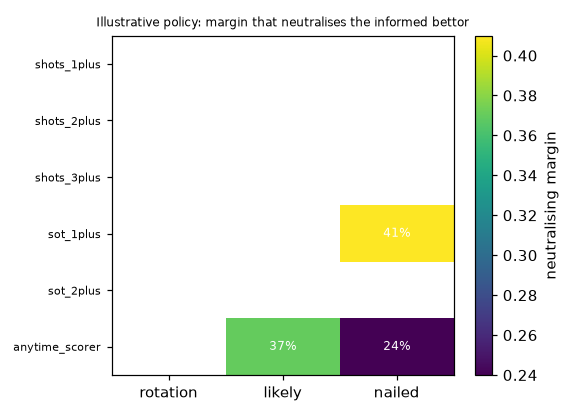
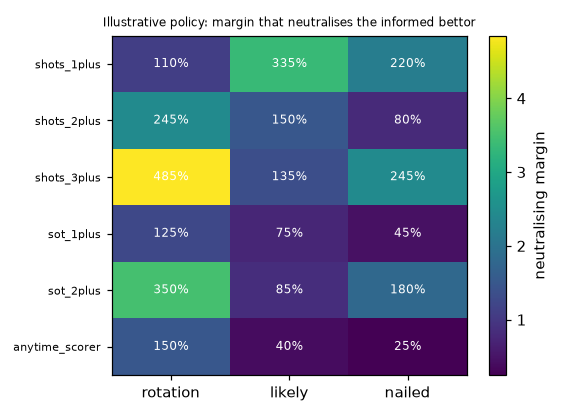
Gate 6: Pillar C metrics, figures, registry, D-052 and gate report

diff --git a/docs/GATES.md b/docs/GATES.md
@@ -392,3 +392,41 @@ Everything else in the efficiency map is **not distinguishable from zero**: no l
 - D-043 outcome accepted: the Pillar A BTTS calibration claim is withdrawn.
 - Locked: D-047, D-048. New: D-049 (frailty experiment for the under-prediction), D-050 (Pillar C pre-registration).
 - Phase 6 may start.
+
+### Step 0 report (implementer, 2026-10-07, after the Gate 5 audit)
+- **D-049 (frailty experiment), `uv run edgeforge phase6 frailty`, `phase6_frailty.json`, commit `7e13ae7`: NOT ADOPTED.** theta was tuned on matchweeks 10-14 (lineups state, D-047 templates, template-equal-weight log loss) with `tune_interior` and a natural lower bound at 0: joint log loss 0.29704 at theta 0, 0.29726 at 0.05, 0.29772 at 0.1, 0.29844 at 0.2, 0.29971 at 0.4, so the optimum is at the natural bound theta = 0 (no edge problem, D-040). On the choose window (matchweeks 15-19) the best positive grid value, theta 0.05, changes joint log loss by +0.00025 [-0.00040, +0.00089] (not an improvement) and team-market log loss by -0.00123 [-0.00346, +0.00099]. Evaluated once on test regardless: theta 0.05 minus 0 joint log loss +0.00008 [-0.00030, +0.00047] (lineups) and +0.00006 [-0.00032, +0.00044] (opening); team-market +0.00062 [-0.00040, +0.00157] and +0.00046 [-0.00050, +0.00148]. **Absolute under-prediction (mean predicted vs realised rate, lineups) before -> after:** T05 0.064 -> 0.065 (realised 0.082); T06 0.153 -> 0.153 (0.179); T09 0.065 -> 0.067 (0.071); T10 0.080 -> 0.080 (0.102); T11 0.048 -> 0.049 (0.065). A shared match-level frailty therefore does not explain the under-prediction; Phase 6 uses theta = 0 and the Phase 5 numbers stay the headline.
+- Phase 4 was rerun once to emit tuning-window start probabilities (needed to fit the Pillar C policy on matchweeks 10-19); every committed Phase 4 metric is unchanged apart from provenance (checked field by field).
+
+## Gate 6: Pillar C, lineup shock and adverse selection (2015/16 player block)
+
+**Report date:** 2026-10-07. Metrics: `phase6_pillar_c.json` (collected and analysed at commit `ec1d218`, clean tree, theta 0, 20,000 simulations per match and state, seed 20261004) and `phase6_frailty.json`. 758 test matches (matchweeks 20-38) for results; the 380 matches of matchweeks 10-19 only for fitting the illustrative policy. The specification is D-051 (the pre-registration D-050 asks for; D-050 itself is the lead's requirement), committed in `00c6500` before any Pillar C quantity existed. Everything below is labelled **UPPER BOUND** (D-016, D-029: lineups known with certainty at T-60 minutes) or **SIMULATION** (no real bettor, no customer flow, no limits, no liquidity cost).
+
+### What was built
+- `evaluation/phase6_pillar_c.py` (`edgeforge phase6 run [--reuse-collected]`), `evaluation/phase6_frailty.py` (`edgeforge phase6 frailty`), the optional frailty in the simulator, `configs/phase6.yaml`. Every proposition is priced in both states from the same simulator, seed and model version; the null control re-simulates the opening state with an independent seed.
+- Propositions: 147,780 props in the lineups squad (119,970 settled, i.e. the player appeared) and 15,589 SGA instances priced in both states (14,842 settled; 1,845 instances were void because a named player was not in the lineups squad).
+
+### Gate criteria
+| # | Criterion | Result | Proving command | Observed (from `phase6_pillar_c.json`) |
+|---|---|---|---|---|
+| 1 | D-050/D-051 pre-registration committed before any Pillar C result | **PASS** | `git show 00c6500 -- docs/DECISIONS.md` | markets, bands (<0.50, 0.50-0.85, >0.85 opening P(start)), shock metric, informed-bettor rule, margin grid, epsilon, BH families all fixed in D-051 |
+| 2 | Both states priced for all props and D-047 SGA templates | **PASS** | `uv run edgeforge phase6 run` | counts above; props by market x band, SGAs by template, leg count and band |
+| 3 | Shock distribution (log-odds and fair decimal odds) by market, band and SGA leg count; shares moving > 10/25/50% | **PASS** | same, `shock` | share of props whose fair odds move by more than 10% / 25% / 50%: rotation 94 / 82 / 59%, likely 55 / 31 / 24%, nailed 40 / 16 / 8%; median change in log-odds -0.57 for rotation, -0.02 likely, -0.04 nailed. Largest in shots 2+ (rotation 95 / 86 / 68%), smallest in SoT 1+ and anytime scorer for nailed starters (25 / 6 / 5% and 38 / 9 / 5%). SGAs by leg count 2 / 3 / 4 / 5: 47 / 43 / 65 / 65% move more than 10% and 18 / 19 / 30 / 27% more than 50%; by band rotation 94 / 76 / 48%, nailed 30 / 10 / 8% |
+| 4 | Value of information (log loss opening vs lineups), paired bootstrap, BH 10% | **PASS (mixed)** | same, `value_of_information` | Family V (19 tests): the lineups price is better for **all six prop markets** (opening minus lineups log loss: shots 1+ +0.0242 [+0.0206, +0.0278], 2+ +0.0215, 3+ +0.0141, SoT 1+ +0.0097, SoT 2+ +0.0063, anytime +0.0040 [+0.0024, +0.0055]; all q = 0.005) and for **three of 13 SGA templates**: T05 +0.0045 (q 0.076), T06 +0.0101 (q 0.019), T12 +0.0127 (q 0.005). The other ten templates are not distinguishable from zero (differences -0.0015 to +0.0049). Family B (band split): rotation and likely players improve in every market, nailed starters only in shots 3+ (+0.0039); e.g. shots 1+ rotation +0.0468, nailed +0.0027 (not distinguishable) |
+| 5 | Informed-bettor simulation: bet rate, book expected P&L per unit staked, realised P&L, CIs, margin at which informed profit reaches zero | **PASS** | same, `informed_bettor` | props pooled at margin 0 / 5% / 10% / 20% / 60%: bet rate 99% / 50% / 37% / 24% / 8%; informed expected profit per offered proposition 0.191 / 0.151 / 0.125 / 0.090 / 0.032; realised 0.239 [0.160, 0.340] at 0 and 0.187 [0.118, 0.280] at 5%; book expected P&L per unit staked -0.19 / -0.30 / -0.34 / -0.37 / -0.38. At 10%: rotation expected 0.283 (realised 0.311), likely 0.071 (0.057), nailed 0.036 (0.101). SGAs pooled at 5%: expected 0.045, realised 0.089 [0.006, 0.181]. Family P (realised profit at 5% differs from zero, 19 tests): survivors are all six prop markets plus T11 (q 0.076) and T12 (q 0.049); the other 11 templates are not distinguishable from zero. **Margin that reaches zero: on the pre-registered grid (0-60%) it is not reached by any pooled cell or by rotation props**; reached only by anytime scorer likely 37% / nailed 24%, SoT 1+ nailed 41% (tuning window) and by 9 of 13 SGA templates (44-57%, tuning window). Post-hoc extended grid below |
+| 6 | Policy output: margin per market x band vs flat; stake-limit alternative; rotation vs nailed | **PASS (illustrative)** | same, `policy` | **Post-hoc extended grid (0-500%, tuning window; labelled in D-052):** neutralising margin props pooled 260%; by band rotation 330%, likely 195%, nailed 165% (test window: 345 / 205 / 220%). By market, rotation / likely / nailed: shots 1+ 110 / 335 / 220%, shots 2+ 245 / 150 / 80%, shots 3+ 485 / 135 / 245%, SoT 1+ 125 / 75 / 45%, SoT 2+ 350 / 85 / 180%, anytime scorer 150 / 40 / 25%. SGAs: pooled 70% (test 85%), by template 45-100%, by band rotation 135%, likely 45%, nailed 15%. Single-cell margins are noisy and not monotone in band (shots 1+ likely above nailed); the band-level and pooled figures are the stable ones. **Test evaluation of the policies fitted on matchweeks 10-19:** flat pooled 260%: informed expected profit per offered proposition 0.0012 [0.0010, 0.0015], realised -0.0012 [-0.0021, -0.0002]; differentiated (mean margin 168%: rotation 244%, likely 137%, nailed 133%): 0.0016 [0.0013, 0.0019], realised -0.0028 [-0.0040, -0.0015]; flat worst cell 485%: 0.0001. A nailed starter is charged 133% under the differentiated policy and 260% under the flat one (127 points less); a rotation player 244% vs 260%. Capped at the pre-registered 60%: expected 0.032 and realised 0.021 [0.010, 0.033]. SGA flat pooled 70%: 0.0014 (realised -0.0004); differentiated by template (mean 68%): 0.0012 (realised -0.0043 [-0.0073, -0.0017]). **Stake limit** (expected informed profit at most 0.5 per match at a 5% margin): the unit-stake informed profit per match on the tuning window is 22.1 for props pooled (rotation 15.0, likely 5.0, nailed 2.0), giving maximum stakes of 0.023 (pooled), 0.033 / 0.099 / 0.247 (rotation / likely / nailed), 0.633 for SGAs; on test the expected profit at those stakes is 0.54 (pooled), 0.53 / 0.56 / 0.59 and 0.57, realised 0.67 / 0.58 / 0.62 / 1.46 and 1.11 |
+| 7 | Null control for Monte Carlo noise (added; see D-052) | **PASS** | same, `null_control` | replacing the lineups probabilities with an independent re-simulation of the opening state gives informed expected profit per offered proposition of 0.035 / 0.019 / 0.014 at margin 0 / 5% / 10% for props (about 12% of the informed figure at 5%) and 0.018 / 0.0043 / 0.0014 for SGAs (noise-only neutralising margin 12%); reported so that margins below roughly that level are not read as information |
+| 8 | Figures | **PASS** | `ls artifacts/figures` | `phase6_shock_by_band_market.png`, `phase6_informed_profit_vs_margin.png`, `phase6_policy_heatmap.png` |
+| 9 | Registry and provenance | **PASS** | `experiments/registry.jsonl`, `phase6_*.json` | 49 `phase6::` records (19 promoted, 30 rejected): frailty grid, 19 value-of-information tests, 19 informed-profit tests, three policies; provenance on both metrics files (`collected_at_git_sha` records which commit produced the simulations) |
+| 10 | Tests and CI-equivalent checks green (D-046) | **PASS** | `uv run edgeforge ci-local` -> `artifacts/metrics/ci_local.json` | green at `<CI_SHA>` |
+
+### Honest summary for the technical report
+- **Measured (shock, UPPER BOUND):** knowing the lineups changes a rotation-risk player's prop prices by more than 25% in about four of five cases and a nailed starter's in about one in six; the lineups price predicts outcomes better for every prop market, mostly because of rotation and likely players.
+- **SGA shock is smaller and rarely detectable on outcomes:** named players are each team's top scorers (mostly likely or nailed), so only three of 13 templates show a measurable gain from lineups.
+- **Simulated (informed bettor):** a bettor who knows the lineups earns expected profit of about 0.15 units per proposition offered at a 5% margin and still about 0.03 at 60%; realised profit agrees with the expected profit (positive, CIs exclude zero for all six prop markets). Against rotation-risk props no proportional margin below 60% protects the book, and the post-hoc search puts the protective margin at roughly 330% for rotation, about 165-195% for nailed and likely props, and about 70% for SGAs. These margins are a statement about the size of the pre-lineup information gap in a world with no limits or stake caps, not a price a book could charge; the practical lever is the stake limit (0.03 units per bet for rotation props at 0.5 units per match), which the figures support.
+- **What does not hold:** the tuning-window policy neutralises the informed bettor in expectation on test (expected profit about 0.001 per proposition) and slightly overshoots in realised terms (realised profit slightly negative, CIs exclude zero for the differentiated policy and the template-differentiated SGA policy); single-cell margins are noisy and the nailed-vs-likely ordering is not monotone in every market.
+
+### Deviations, decisions and caveats
+- **Post-hoc additions (D-052):** (1) the extended margin grid (0-500%) because the pre-registered 0-60% grid left most cells unreached; (2) the null control for Monte Carlo noise; (3) SGA propositions need at least 200 effective simulations in both states (rare joints are otherwise pure noise); (4) the stake-limit rule uses the margin 5%. D-051 is otherwise followed as written.
+- The opening state prices only candidates; 4.9% of appearing players (2.5% of shots) are outside it and cannot be bet.
+- The informed bettor's profit is computed with the same model for both prices; model error in the opening state (for example the Phase 4 P(start) calibration) is part of the "shock".
+- A first Pillar C run failed before producing any result (the tuning window had no opening-state start probabilities); the fix is in `a75bef4`. No result from it was used.

diff --git a/docs/DECISIONS.md b/docs/DECISIONS.md
@@ -349,3 +349,8 @@ Format: ID | Decision | Why | Rejected alternatives | Status. Locked entries are
 - **Tests and BH families.** Family V (value of information): 6 markets + 13 templates = 19 tests of mean (log loss p_o - log loss p_l) = 0, BH 10%. Family B (exploratory band split of the same): 18 market x band tests, separate BH. Family P (informed profit at the 5% reference margin): realised informed profit per offered proposition = 0, 6 markets + 13 templates = 19 tests, BH 10%. Only BH survivors are called findings.
 - **What would count against the project's hypothesis:** if the lineups probabilities do not predict outcomes better than the opening ones (Family V null), the upper-bound shock is information-free noise and the informed bettor's realised profit is not distinguishable from zero; both are reported as such.
 - **Status:** Locked (implementer, pre-registered, lead to audit)
+
+### D-052 Post-hoc additions to Pillar C (labelled; D-051 otherwise followed as written)
+- **Why:** the first complete Pillar C run showed that no pooled prop cell reaches the D-051 neutralising threshold inside the pre-registered margin grid (0 to 60%), because lineup shocks for rotation-risk players are far larger than any plausible proportional margin; a "not reached" result is reported as such, but alone it gives no policy comparison.
+- **Additions, all labelled post-hoc in the metrics and the gate report:** (1) an extended search grid for the neutralising margin, 0 to 500% in steps of 5% (`configs/phase6.yaml`), used for the illustrative policy; cells unreached even at 500% are capped; the pre-registered grid results are kept next to them; (2) a null control: the lineups probabilities replaced by an independent re-simulation of the opening state, to size the profit that Monte Carlo noise alone creates; (3) SGA propositions need at least 200 effective simulations in both states; (4) the stake-limit rule is evaluated at the 5% reference margin. No result was selected among alternatives.
+- **Status:** Locked (implementer, pending lead audit)
